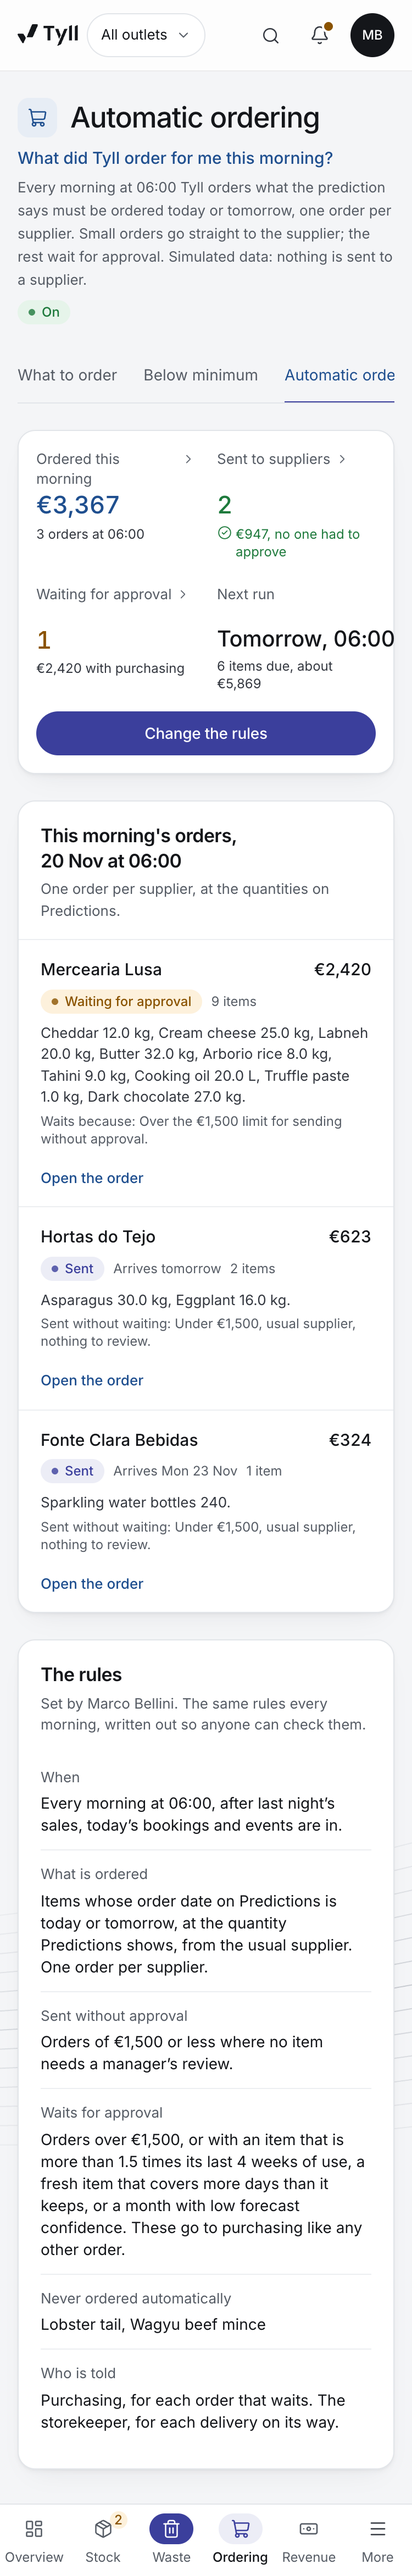
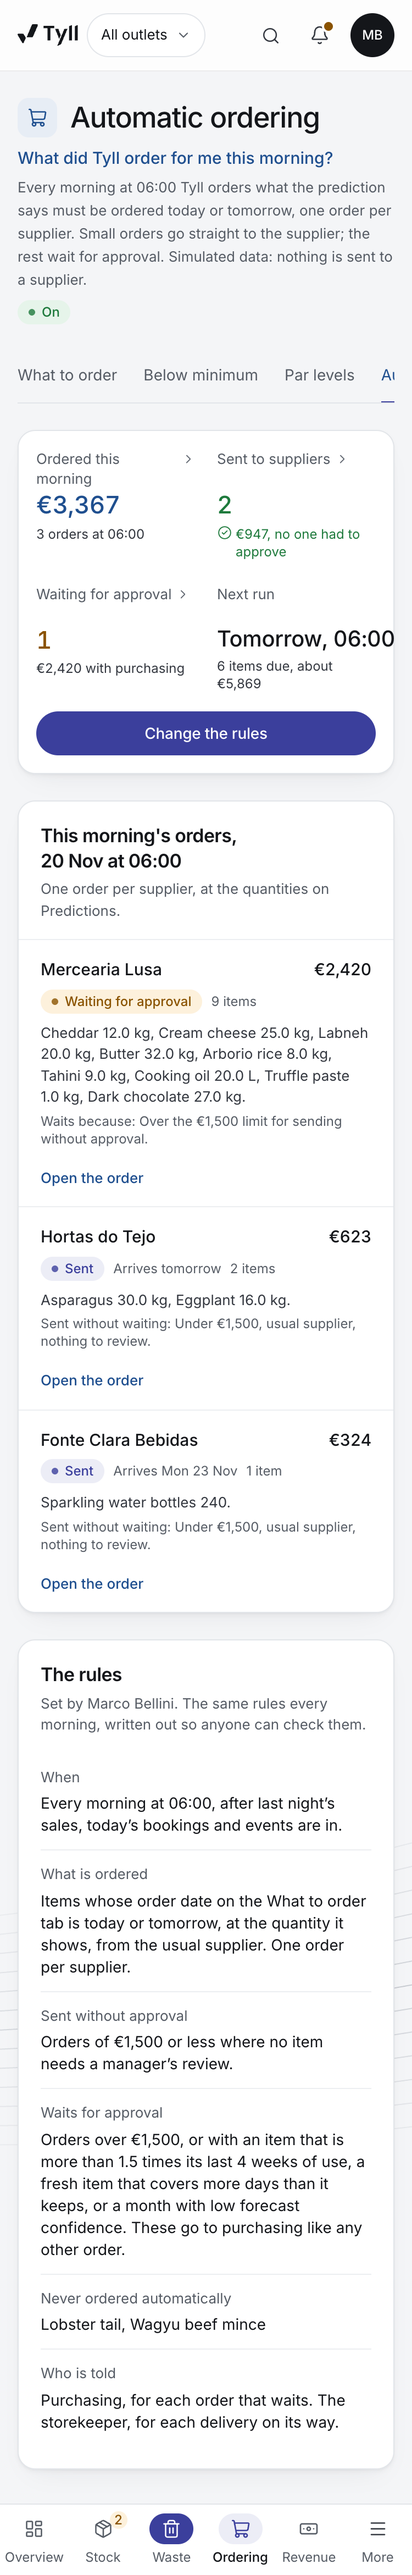
Simplify: Ordering name on every screen, after screenshots, log and report

Changed region(s): [[0.092, 0.7169, 0.7973, 0.7792]]

diff --git a/src/components/shell/walkthrough.tsx b/src/components/shell/walkthrough.tsx
@@ -46,7 +46,7 @@ const TOURS: Partial<Record<User["role"], (u: User) => TourStep[]>> = {
     S.page("/stock", "Stock", "How much is left, with critical items first. Start count is on top, and everything else is one click away.", "stock"),
     S.page("/stock?tab=where", "Where did it go?", "Stock used that sales do not explain, item by item. Open one to see the calculation and what to check.", "investigations"),
     S.page("/forecast?tab=auto", "Automatic ordering", "Every morning Tyll orders what must go today, one order per supplier. Small orders go straight to the supplier; the rest wait for approval.", "forecast"),
-    S.page("/forecast", "Predictions", "What to order and how much for the month. Build order makes one draft for approval.", "forecast"),
+    S.page("/forecast", "Ordering", "What to order and how much for the month. Build order makes one draft for approval.", "forecast"),
     S.hub("/events", "Events and staff support", "Ask other teams for staff, or answer their requests for yours.", "events"),
     S.nav("/"), S.search("/"), S.bell("/"),
   ],
@@ -54,7 +54,7 @@ const TOURS: Partial<Record<User["role"], (u: User) => TourStep[]>> = {
     S.page("/forecast?tab=toorder", "To order", "Everything below its minimum, with the quantity back to the maximum. One click makes draft purchase orders, one per supplier.", "forecast"),
     S.page("/forecast?tab=suppliers", "Suppliers", "Each supplier's delivery days, cut-off, minimum order, terms and catalogue with agreed prices.", "forecast"),
     S.page("/forecast?tab=auto", "Automatic ordering", "What Tyll ordered this morning. Orders over the limit, or with an item to review, wait for you in Orders.", "forecast"),
-    S.page("/forecast", "Predictions", "What to order and how much for the month. Orders holds requests, purchase orders and deliveries.", "forecast"),
+    S.page("/forecast", "Ordering", "What to order and how much for the month. Orders holds requests, purchase orders and deliveries.", "forecast"),
     S.page("/forecast?tab=approvals&queue=purchasing", "Requests to review", "Open a request to check quantities and choose the supplier, then approve or send it back.", "forecast"),
     S.bell("/forecast?tab=approvals"),
     S.page("/stock", "Stock levels", "How much is left, with critical items first. Deliveries and invoices are under Purchasing.", "stock"),

diff --git a/src/components/purchasing/supplier-reliability.tsx b/src/components/purchasing/supplier-reliability.tsx
@@ -92,7 +92,7 @@ export function SupplierReliability({ tabs }: { tabs?: ReactNode }) {
             trend={<StripTrend goodWhen="up" title="On time per week, all suppliers" points={overall} format={fmt} summary={`Share of deliveries on time each week over ${data.weeks} weeks, all suppliers with a record.`} note="percent" footer={(() => { const v = overall.filter((p) => p.value !== null); const last = v.at(-1)?.value, avg = v.length ? Math.round(v.reduce((t, p) => t + (p.value ?? 0), 0) / v.length) : null; return last != null && avg != null ? <>Last week <span className="num font-medium text-graphite">{last}%</span> on time, {data.weeks} week average {avg}%</> : null; })()} series={known.slice(0, 2).map((r) => ({ id: r.supplierId, label: r.name, points: weekly(r), format: fmt, axis: "main", explain: `${r.name}: share of its deliveries on time each week.`, goodWhen: "up" as const }))} />}
           />
           {tabs}
-          <Panel title="Least reliable first" description="Each supplier's on time rate, how late it is when it is late, and the weekdays it runs late. Deliveries likely to be late show on Predictions under Deliveries at risk." action={<Segmented label="Period" size="sm" value={weeks} onChange={setWeeks} options={[{ value: "4", label: "4 weeks" }, { value: "12", label: "12 weeks" }]} />}>
+          <Panel title="Least reliable first" description="Each supplier's on time rate, how late it is when it is late, and the weekdays it runs late. Deliveries likely to be late show on Ordering under Deliveries at risk." action={<Segmented label="Period" size="sm" value={weeks} onChange={setWeeks} options={[{ value: "4", label: "4 weeks" }, { value: "12", label: "12 weeks" }]} />}>
             <ul className="grid grid-cols-1 gap-4 md:grid-cols-2">{rows.slice(0, TOP).map((r) => <SupplierCard key={r.supplierId} r={r} />)}</ul>
           </Panel>
           {rows.length > TOP && (

diff --git a/src/components/prediction/auto-order.tsx b/src/components/prediction/auto-order.tsx
@@ -162,7 +162,7 @@ export function AutoOrdering({ tabs }: { tabs?: ReactNode } = {}) {
           <Panel title="The rules" description={`Set by ${personName(s.changedBy)}. The same rules every morning, written out so anyone can check them.`}>
             <dl>
               <Rule label="When">Every morning at {s.time}, after last night&rsquo;s sales, today&rsquo;s bookings and events are in.</Rule>
-              <Rule label="What is ordered">Items whose order date on Predictions is today or tomorrow, at the quantity Predictions shows, from the usual supplier. One order per supplier.</Rule>
+              <Rule label="What is ordered">Items whose order date on the What to order tab is today or tomorrow, at the quantity it shows, from the usual supplier. One order per supplier.</Rule>
               <Rule label="Sent without approval">Orders of {money(s.sendUnder)} or less where no item needs a manager&rsquo;s review.</Rule>
               <Rule label="Waits for approval">Orders over {money(s.sendUnder)}, or with an item that is more than 1.5 times its last 4 weeks of use, a fresh item that covers more days than it keeps, or a month with low forecast confidence. These go to purchasing like any other order.</Rule>
               <Rule label="Never ordered automatically">{s.never.length ? s.never.map((g) => ingredientById[g].name).join(", ") : "None"}</Rule>

diff --git a/src/components/forecast/approvals.tsx b/src/components/forecast/approvals.tsx
@@ -409,7 +409,7 @@ function RequestView({ id, base }: { id: string; base: string }) {
         {r.auto && (
           <div className="mb-5 rounded-2xl border border-line bg-cloud px-5 py-4">
             <p className="text-sm font-medium text-ink">{r.auto.decision === "sent" ? `Ordered automatically at ${r.auto.runAt.slice(11, 16)} and sent without waiting` : `Created automatically at ${r.auto.runAt.slice(11, 16)}, waiting for approval`}</p>
-            <p className="mt-1 text-sm text-graphite">{r.auto.decision === "sent" ? "Why it went straight to the supplier: " : "Why it waits: "}{r.auto.why} The quantities are the prediction&rsquo;s, with the reasoning on Predictions. In this demo nothing is sent to a supplier.</p>
+            <p className="mt-1 text-sm text-graphite">{r.auto.decision === "sent" ? "Why it went straight to the supplier: " : "Why it waits: "}{r.auto.why} The quantities are the prediction&rsquo;s, with the reasoning on Ordering. In this demo nothing is sent to a supplier.</p>
           </div>
         )}
         <Progress d={data} />

diff --git a/src/components/prediction/predictions.tsx b/src/components/prediction/predictions.tsx
@@ -263,7 +263,7 @@ export function Predictions({ tabs }: { tabs?: ReactNode } = {}) {
 
   return (
     <div className="space-y-6">
-      <PageHeader title="Predictions" question="What do I need to order?" lead="Tyll's own forecasting model works out every quantity from sales history, bookings, events, hotel occupancy and current stock. No AI chooses a quantity. Simulated data." />
+      <PageHeader title="Ordering" question="What do I need to order?" lead="Tyll's own forecasting model works out every quantity from sales history, bookings, events, hotel occupancy and current stock. No AI chooses a quantity. Simulated data." />
       {error ? <WidgetError>The stock prediction could not load.</WidgetError> : !plan ? (
         <div className="space-y-4" aria-busy><Skeleton className="h-24 w-full" /><Skeleton className="h-64 w-full" /></div>
       ) : (

diff --git a/src/components/shell/app-shell.tsx b/src/components/shell/app-shell.tsx
@@ -47,7 +47,7 @@ import { PILOT_URL } from "@/lib/pilot";
 const NAV: Record<ModuleId, { label: string; short?: string; icon: LucideIcon }> = {
   overview: { label: "Overview", icon: LayoutDashboard },
   stock: { label: "Stock levels", icon: Package },
-  forecast: { label: "Predictions", icon: ShoppingCart },
+  forecast: { label: "Ordering", icon: ShoppingCart },
   money: { label: "Revenue", icon: Banknote },
   drinks: { label: "Over pouring", short: "Pouring", icon: Wine },
   waste: { label: "Log waste", icon: Trash2 },

diff --git a/SIMPLIFY_LOG.md b/SIMPLIFY_LOG.md
@@ -107,4 +107,60 @@ Branch `feature/simplify-demo`, from `feature/late-delivery-prediction` (the mos
 
 ## 3. Changes, step by step
 
-(Filled in as each step lands.)
+### Switches (hide, don't delete): `src/lib/features.ts`
+Every hidden part keeps its code, data, permissions and tests. The switch file removes it from menus, links, search, tours, sign in and Settings, and `src/lib/redirects.ts` (read by `src/proxy.ts`) sends its addresses on.
+
+| Switch | Off hides | Address now leads to |
+|---|---|---|
+| `flow` | Tyll Flow, the order board card on My tasks, "Service right now" | `/flow` to `/` |
+| `rooms` | Rooms and guest experience, the rooms tiles in Tyll Staff, the "guests may wait for a room" bell notice, rooms in search, the Rooms and guests group on sign in, the four rooms roles in Settings | `/rooms` to `/` |
+| `previews` | Events and staffing, Sales and performance, Tips, the events, sales and director of sales roles in Settings and sign in, event staffing notices on stock alerts | `/events`, `/performance` to `/`; `/money?tab=tips` to `/money` |
+| `expiry` | Expiring soon: menu item, Stock tab, alert, daily bell notice, search entry | `/stock?tab=expiry` to `/stock` |
+| `otherTools` | Other tools in the menu (the guided path offer moved to the Overview) | `/more` to `/` |
+| `overviewRevenue` | The Overview Revenue card with an estimated profit | (a card, no address) |
+
+### Merges
+- **Flagged transactions** (`/money?tab=flags`) now holds the cases list that was the Money Back List (`src/components/money/case-list.tsx`): filters, bulk assignment with deadlines, outcomes, CSV export, five cases first with "Show all". One set of figures at the top: Open flags, Value at risk, Confirmed losses, Recovered. The rules, worked example and charts sit below in one folded section; the room charge rule is always among the rules shown first. `/investigations` and `/money?tab=mistakes` lead here with their filters kept; case pages stay at `/investigations/<id>` and go back to Flagged transactions.
+- **Purchasing** has four items: Ordering (`/forecast`, tabs What to order, Below minimum, Par levels, Automatic ordering, Plan the prep, Next 7 days, by role), Orders, Suppliers (with Catalogue and Reliability), Deliveries and invoices.
+- **Deliveries and invoices** has one address, `/deliveries` (invoice approval at `/deliveries?tab=invoices`). `/stock?tab=suppliers` and `/finance?tab=invoices` lead there with their values kept; every link in the code uses the new address.
+
+### Overview
+- Four cards, each one thing to act on: **Stock levels** ("2 to order today"), **Drinks not billed** (an estimate), **Orders** ("N to approve" when something waits at your step, otherwise "N waiting; most wait for Purchasing", plus on the way and late), **Supplier invoices** ("€564 to query": invoiced for goods not delivered or above the agreed price, not yet credited). The Revenue card with an estimated profit is switched off.
+- The guided path offer is one line at the top of the Overview.
+
+### Guided path (`src/components/shell/early-access.tsx`)
+1. Money found (Overview), 2. Ordering, 3. Over pouring, 4. Flagged transactions, 5. Deliveries and invoices. All as the F&B Director; each lands with its point at the top of the page.
+
+### Bugs fixed
+- **Date:** the root layout writes the server's business date into every page (`<meta name="tyll-day">`) and is rendered on request (`force-dynamic`); the browser reads that first (`resolveBusinessDay`, tested). Labels, charts and server figures can no longer show two days. A server running past midnight still keeps its day until restarted (known, from the audit).
+- **403 on Stock** for Purchasing and the Head Chef: missing stock is only asked for by roles that may see it.
+- **Back button** on Deliveries and invoices pointed at Other tools; it is a main page now, and pages with no section go back to the Overview.
+- **Two versions of a figure:** Orders waiting (Overview said 1, Orders 3) now both say 3; Revenue's "At risk, flags and drinks" is replaced by Average bill (money at risk lives on Flagged transactions); "To query with suppliers" leaves out deliveries already credited, on Deliveries and on the Overview card (both €564).
+- **Internal codes in first view lists:** orders are named by supplier and items, deliveries by supplier and date, automatic orders by "Open the order". Codes stay on detail pages. Bill numbers stay in All transactions, a search list where staff look bills up by number.
+- **Emails list in Settings** showed internal keys and ISO dates; it shows readable dates and record numbers only.
+
+### Tests updated where a screen intentionally moved
+Menu structure (four items per section, Ordering), Back button targets, deep links and redirects (new assertions that every old address leads to the new one), visit page names, search and staff tiles for switched off parts (they follow the switch, so they test both states), the shared flags rule (now checked in the case list component). No check was removed or loosened. New: business date from the page.
+
+## 4. Verification
+
+- **Checks:** type check 0 errors; lint 0 errors and the 2 known warnings; tests 36 files, 538 of 538 passed; build passes (the first run stops on the known SecurityFatalError, the second passes, as on every branch).
+- **Crawl** (headless Chrome) as F&B Director, Purchasing Manager, Head Chef and Financial Controller, 49 addresses each including every old address: 0 console errors, 0 failed requests, 0 dead links, 0 links to switched off parts, 0 Preview screens, 0 "could not load" states; 4,308 links checked. Buttons were not each clicked by the crawler; the main ones (Review flags, Show all cases, Export CSV, tabs, cards) were checked in the browser.
+- **Role switching:** one browser, 12 switches across the four public roles, a page the role may open and one it may not after each, opened and refreshed: 24 of 24 landed right with the right session and no errors.
+- **Screenshots:** `simplify-screenshots/before/` (276) and `simplify-screenshots/after/` (216 plus Arabic): 36 remaining pages × F&B Director, Purchasing Manager, Head Chef × 1440 and 375, and the Overview, Flagged transactions, Ordering, Deliveries and Orders in Arabic. No text left untranslated on those Arabic pages.
+- **Note:** one crawl run made while seven browsers on this computer switched roles at the same time recorded the F&B Director landing on Stock for money pages. It did not happen in the screenshots taken at the same time, nor in two runs since, nor in the 24 switch checks. Sessions are keyed by a random token per browser and nothing in the code lets one browser take another's role; it is logged here in case it is seen again.
+
+## 5. After score
+
+| # | Criterion | Before | After | Evidence |
+|---|---|---|---|---|
+| 1 | 5 second clarity | 6 | 9 | Every page has a plain question; Purchasing is four items; one page for flags and their follow up. Not 10: Stock levels and Over pouring are still long pages with many sections. |
+| 2 | Story | 5 | 9 | Five steps from money found to money recovered and supplier invoices, each landing with its point at the top. Not 10: not yet timed with a real general manager. |
+| 3 | Calm | 6 | 8 | Five cases first, one tab row on Ordering, four Overview cards. Not 10: Over pouring shows eight sections and Stock levels a long table behind one click. |
+| 4 | Trust | 5 | 9 | No Preview screens, no profit estimate on the first screen, one value per figure (orders 3 and 3, invoices €564 and €564, stock 2 and 2, drinks €451 and €451). Not 10: everything is simulated, and money lost (€10,912) is above the story's €10,000. |
+| 5 | Action | 7 | 9 | Every Overview card says what to do in words and links to it; every case has an owner, deadline and outcome. Not 10: Over pouring patterns end in "how to help" text rather than one button. |
+| 6 | Consistency | 6 | 9 | One name and one address per thing (Ordering, Flagged transactions, Deliveries and invoices). Not 10: the Staff app and the tours are still English only. |
+| 7 | Roles | 7 | 9 | Hidden roles leave the lists; 24 of 24 role switch checks; the Head Chef no longer reaches Flow or Events. Not 10: the hidden roles' accounts still exist behind the switches. |
+| 8 | Mobile | 8 | 9 | Log waste and goods in stay two taps; every remaining page captured at 375. Not 10: tab rows scroll sideways on a phone. |
+| 9 | Polish | 7 | 9 | Arabic checked on the five main pages with nothing untranslated; consistent cards and tabs. Not 10: Arabic not checked on every page. |
+| 10 | Reliability | 7 | 9 | 0 errors, dead links or broken redirects in 196 page loads; 538 tests; build passes. Not 10: the one unexplained crawl run above, and a server still needs a restart after midnight. |

diff --git a/SIMPLIFY_REPORT.md b/SIMPLIFY_REPORT.md
@@ -1,0 +1,103 @@
+# Simplify, merge and polish: report
+
+Branch `feature/simplify-demo`. Nothing was pushed or deployed. The full working notes are in `SIMPLIFY_LOG.md`.
+
+## Before and after scores
+
+| # | Criterion | Before | After | One line |
+|---|---|---|---|---|
+| 1 | 5 second clarity | 6 | 9 | Every page has a plain question; Purchasing went from 6 items to 4. Stock levels and Over pouring are still long. |
+| 2 | Story | 5 | 9 | The guided path now ends on money recovered and supplier invoices, not on "Coming soon". |
+| 3 | Calm | 6 | 8 | Five cases first, one tab row, four Overview cards; Over pouring still has eight sections. |
+| 4 | Trust | 5 | 9 | No Preview screens, no profit estimate on the first screen, every repeated figure matches. |
+| 5 | Action | 7 | 9 | Each Overview card says what to do ("2 to order today", "€564 to query"). |
+| 6 | Consistency | 6 | 9 | One name and one address per thing. The staff phone app and the tours are still English only. |
+| 7 | Roles | 7 | 9 | Each role sees only its pages; 24 of 24 role switch checks passed. |
+| 8 | Mobile | 8 | 9 | Staff actions stay two taps; tab rows scroll sideways on a phone. |
+| 9 | Polish | 7 | 9 | Arabic checked on the five main pages with nothing left in English. |
+| 10 | Reliability | 7 | 9 | 0 console errors, 0 dead links, 0 broken redirects; 538 tests pass; build passes. |
+
+## What was hidden, and how to switch it back on
+
+Everything is in one file, `src/lib/features.ts`. Change `false` to `true` and rebuild.
+
+| Hidden | Setting |
+|---|---|
+| Tyll Flow (live kitchen tickets) | `flow` |
+| Rooms and guest experience, and the front office, housekeeping, concierge and bell captain roles | `rooms` |
+| Preview screens: Events and staffing, Sales and performance, Tips (and the sales and events roles) | `previews` |
+| Expiring soon (batch use-by tracking) | `expiry` |
+| Other tools page | `otherTools` |
+| The Overview Revenue card with estimated profit | `overviewRevenue` |
+
+Old addresses of hidden pages lead to the Overview (or to Stock or Revenue for the hidden tabs), so no saved link breaks.
+
+## What was merged
+
+| Before | Now |
+|---|---|
+| Flagged transactions and the Money Back List (`/investigations`) | One page, Flagged transactions (`/money?tab=flags`): the cases with owner, deadline, outcome and money recovered, then the rules |
+| To order, Automatic ordering, Predictions (three menu items) | One item, **Ordering** (`/forecast`), with tabs |
+| Deliveries and invoices at `/stock?tab=suppliers` and `/finance?tab=invoices` | One address, `/deliveries` (invoices at `/deliveries?tab=invoices`) |
+| Room charges hard to find | The room charge rule always shows in "What Tyll checks", and room charge cases sit in the cases list |
+
+## Overview and guided path
+
+- **Overview cards:**
+  - **Stock levels:** "2 to order today".
+  - **Drinks not billed:** an estimate.
+  - **Orders:** "N to approve", or who the orders are waiting on.
+  - **Supplier invoices:** "€564 to query", invoiced for goods not delivered.
+  - The revenue card with estimated profit is switched off.
+- **Guided path:** five steps, all as the F&B Director, each landing on a page where the point is visible without scrolling:
+  1. Money found
+  2. Ordering
+  3. Over pouring
+  4. Flagged transactions
+  5. Deliveries and invoices
+
+## Bugs fixed
+
+- **Two different "todays".** The date could disagree between labels and charts (19 against 20 November). The server now writes its business date into every page, and the browser uses that.
+- **Errors on Stock.** Purchasing and the Head Chef got an error behind the scenes every time they opened Stock.
+- **Contradictory figures.** "1 order waiting" on the Overview against "3" on Orders. A second "at risk" figure on Revenue. An amount to query that still counted invoices the supplier had already credited.
+- **Wrong Back button.** Deliveries and invoices offered "Back to Other tools".
+- **Internal codes in lists.** Codes like PR-LIS-0008 showed in lists; they now appear only on detail pages.
+
+## Navigation now
+
+- Log waste
+- Overview
+- Alerts
+- **Stock and waste:**
+  - Stock levels
+  - Waste and breakage
+  - Stock takes and missing stock
+  - Over pouring
+- **Purchasing:**
+  - Ordering
+  - Orders
+  - Suppliers
+  - Deliveries and invoices
+- **Revenue and reconciliation:**
+  - Revenue
+  - Flagged transactions
+  - Reports
+- **Settings and help:**
+  - Settings
+  - Help and tour
+
+## What could not reach 10, and why
+
+- **Stock levels and Over pouring are still long.** Shortening them means redesigning working features, which this pass ruled out.
+- **Trust.** All data is simulated. Money lost is €10,912, above the story's target of about €10,000; changing that means re-tuning the simulated data.
+- **The staff phone app and the tours are still English.** Translating them is a separate piece of work.
+- **The demo server keeps its date until it restarts.** A demo that runs overnight needs a daily restart.
+
+## How to run it
+
+```bash
+export PATH=~/.local/share/node-lts/bin:$PATH; unset PORT FORCE_COLOR
+node node_modules/next/dist/bin/next build   # run twice if the first stops on the known SecurityFatalError
+node node_modules/next/dist/bin/next start -p 3220
+```
